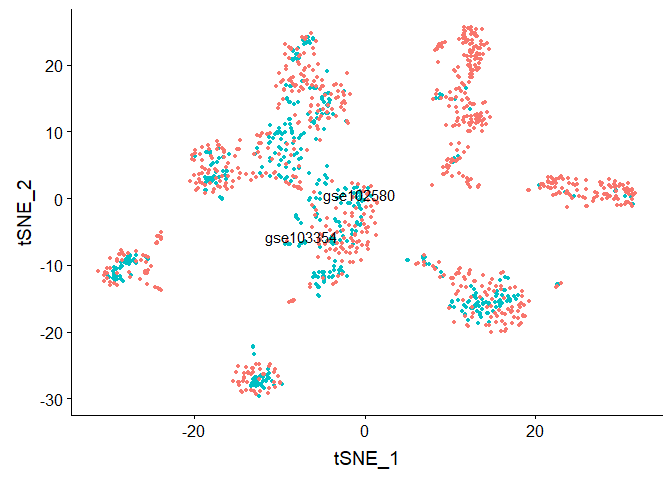
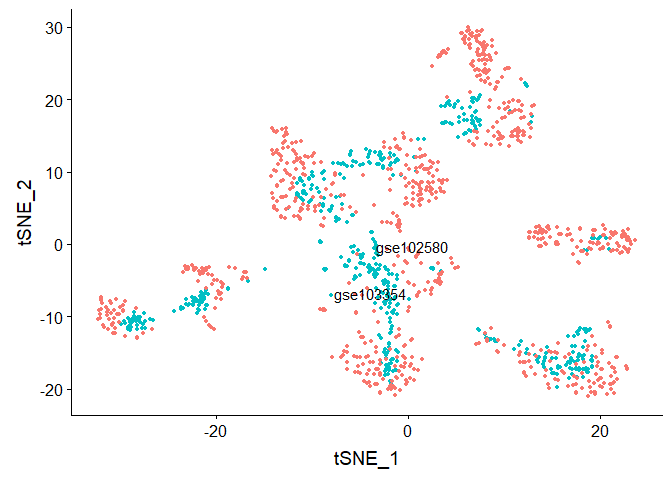
Add files via upload

diff --git a/scrnaseq_analysis/scRNA_Workshop-PART7.md b/scrnaseq_analysis/scRNA_Workshop-PART7.md
@@ -112,6 +112,7 @@ gse.combined <- FindVariableFeatures(object = gse.combined, selection.method = "
 
 gse.combined <- RunPCA(object = gse.combined, npcs = 30, verbose = FALSE)
 
+#Run TSNE, coloring cells by which dataset they came from
 gse.combined <- RunTSNE(object = gse.combined, reduction = "pca", dims = 1:20)
 DimPlot(object = gse.combined, reduction = "tsne", group.by = "stim", label = TRUE, repel = TRUE) + NoLegend()
 ```
@@ -125,6 +126,7 @@ DimPlot(object = gse.combined, reduction = "tsne", group.by = "stim", label = TR
 ![](scRNA_Workshop-PART7_files/figure-html/data_visualization_without_alignment-1.png)<!-- -->
 
 ```r
+#Run TSNE, coloring cells by "cell type"
 gse.combined <- RunTSNE(object = gse.combined, reduction = "pca", dims = 1:20)
 DimPlot(object = gse.combined, reduction = "tsne", group.by = "type", label = TRUE, repel = TRUE) + NoLegend()
 ```
@@ -136,6 +138,10 @@ rm(gse.combined)
 ```
   
 
+[FUTURE] ComBat and Seurat (regress) batch correction results.
+  
+
+
 Now visualize after alignment.
   
 
@@ -145,7 +151,7 @@ reference.list <- list(dataset1,dataset2)
 names(reference.list) <- c(dataset1name, dataset2name)
 
 # ASSIGNMENT 2 modify here
-compData.anchors <- FindIntegrationAnchors(object.list = reference.list, dims = 1:30, k.anchor = 5, k.filter = 200, k.score = 30)
+compData.anchors <- FindIntegrationAnchors(object.list = reference.list, dims = 1:2, k.anchor = 5, k.filter = 200, k.score = 30)
 ```
 
 ```
@@ -177,7 +183,7 @@ compData.anchors <- FindIntegrationAnchors(object.list = reference.list, dims = 
 ```
 
 ```
-## 	Found 1809 anchors
+## 	Found 2065 anchors
 ```
 
 ```
@@ -185,7 +191,7 @@ compData.anchors <- FindIntegrationAnchors(object.list = reference.list, dims = 
 ```
 
 ```
-## 	Retained 1484 anchors
+## 	Retained 1511 anchors
 ```
 
 ```
@@ -226,6 +232,8 @@ DefaultAssay(object = compData.integrated) <- "integrated"
 # Run the standard workflow for visualization and clustering
 compData.integrated <- ScaleData(object = compData.integrated, verbose = FALSE)
 compData.integrated <- RunPCA(object = compData.integrated, npcs = 30, verbose = FALSE)
+
+#Run TSNE on integrated data, coloring cells by which dataset they came from
 compData.integrated <- RunTSNE(object = compData.integrated, reduction = "pca", dims = 1:30)
 DimPlot(object = compData.integrated, reduction = "tsne", group.by = "stim", label = TRUE, 
               repel = TRUE) + NoLegend()
@@ -234,6 +242,7 @@ DimPlot(object = compData.integrated, reduction = "tsne", group.by = "stim", lab
 ![](scRNA_Workshop-PART7_files/figure-html/seuratAlignment-1.png)<!-- -->
 
 ```r
+#Run TSNE on integrated data, coloring cells by "cell type"
 DimPlot(object = compData.integrated, reduction = "tsne", group.by = "type", label = TRUE, 
               repel = TRUE) + NoLegend()
 ```
@@ -263,3 +272,10 @@ When does alignment work well? (e.g. what were the results of Assignment 1?)
 Statistical significance?
 When does alignment make sense?
 How do you know when alignment makes sense?
+
+## More reading
+
+For a larger list of alignment methods, as well as an evaluation of them, see our preprint here: https://www.biorxiv.org/content/10.1101/504944v6 . As a side note, some of the benefits of scAlign compared to most other methods include:
+
+* ability to 'project' data from aligned space back to UMI/count space (for post-analysis). 
+* ability to use partial labeling of cells to improve alignment - e.g. suppose only some cells can be labeled using high confidence markers.
